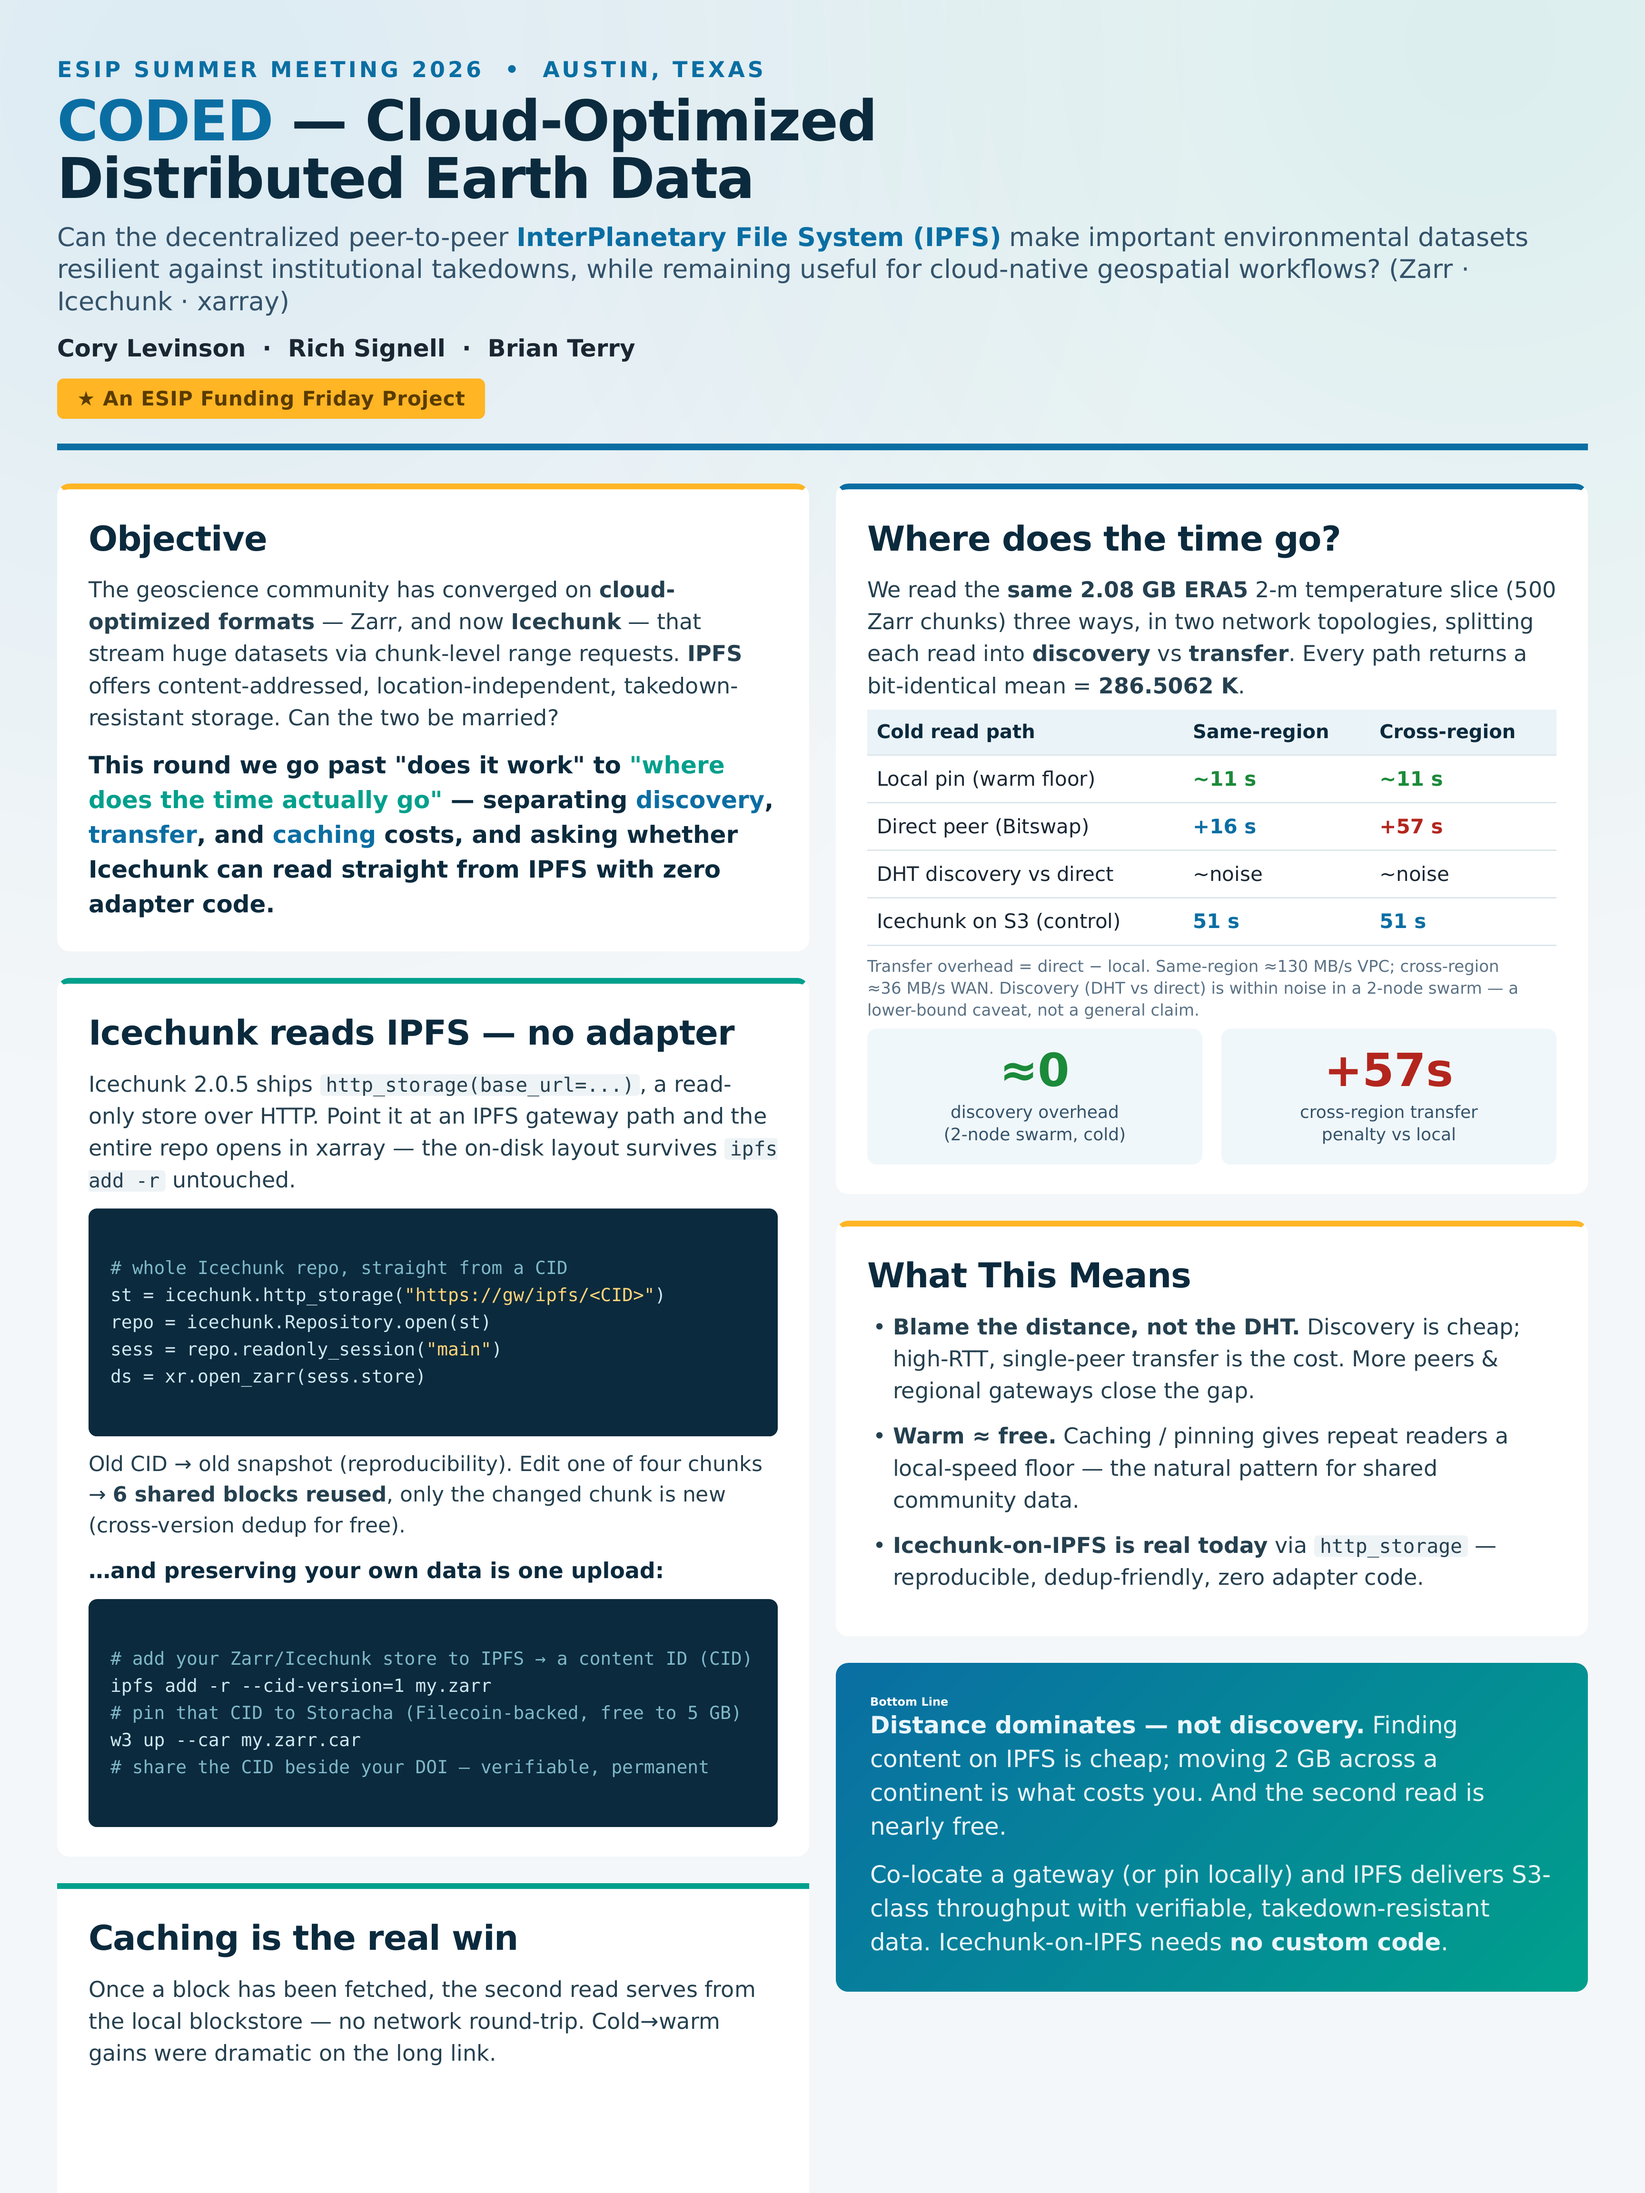
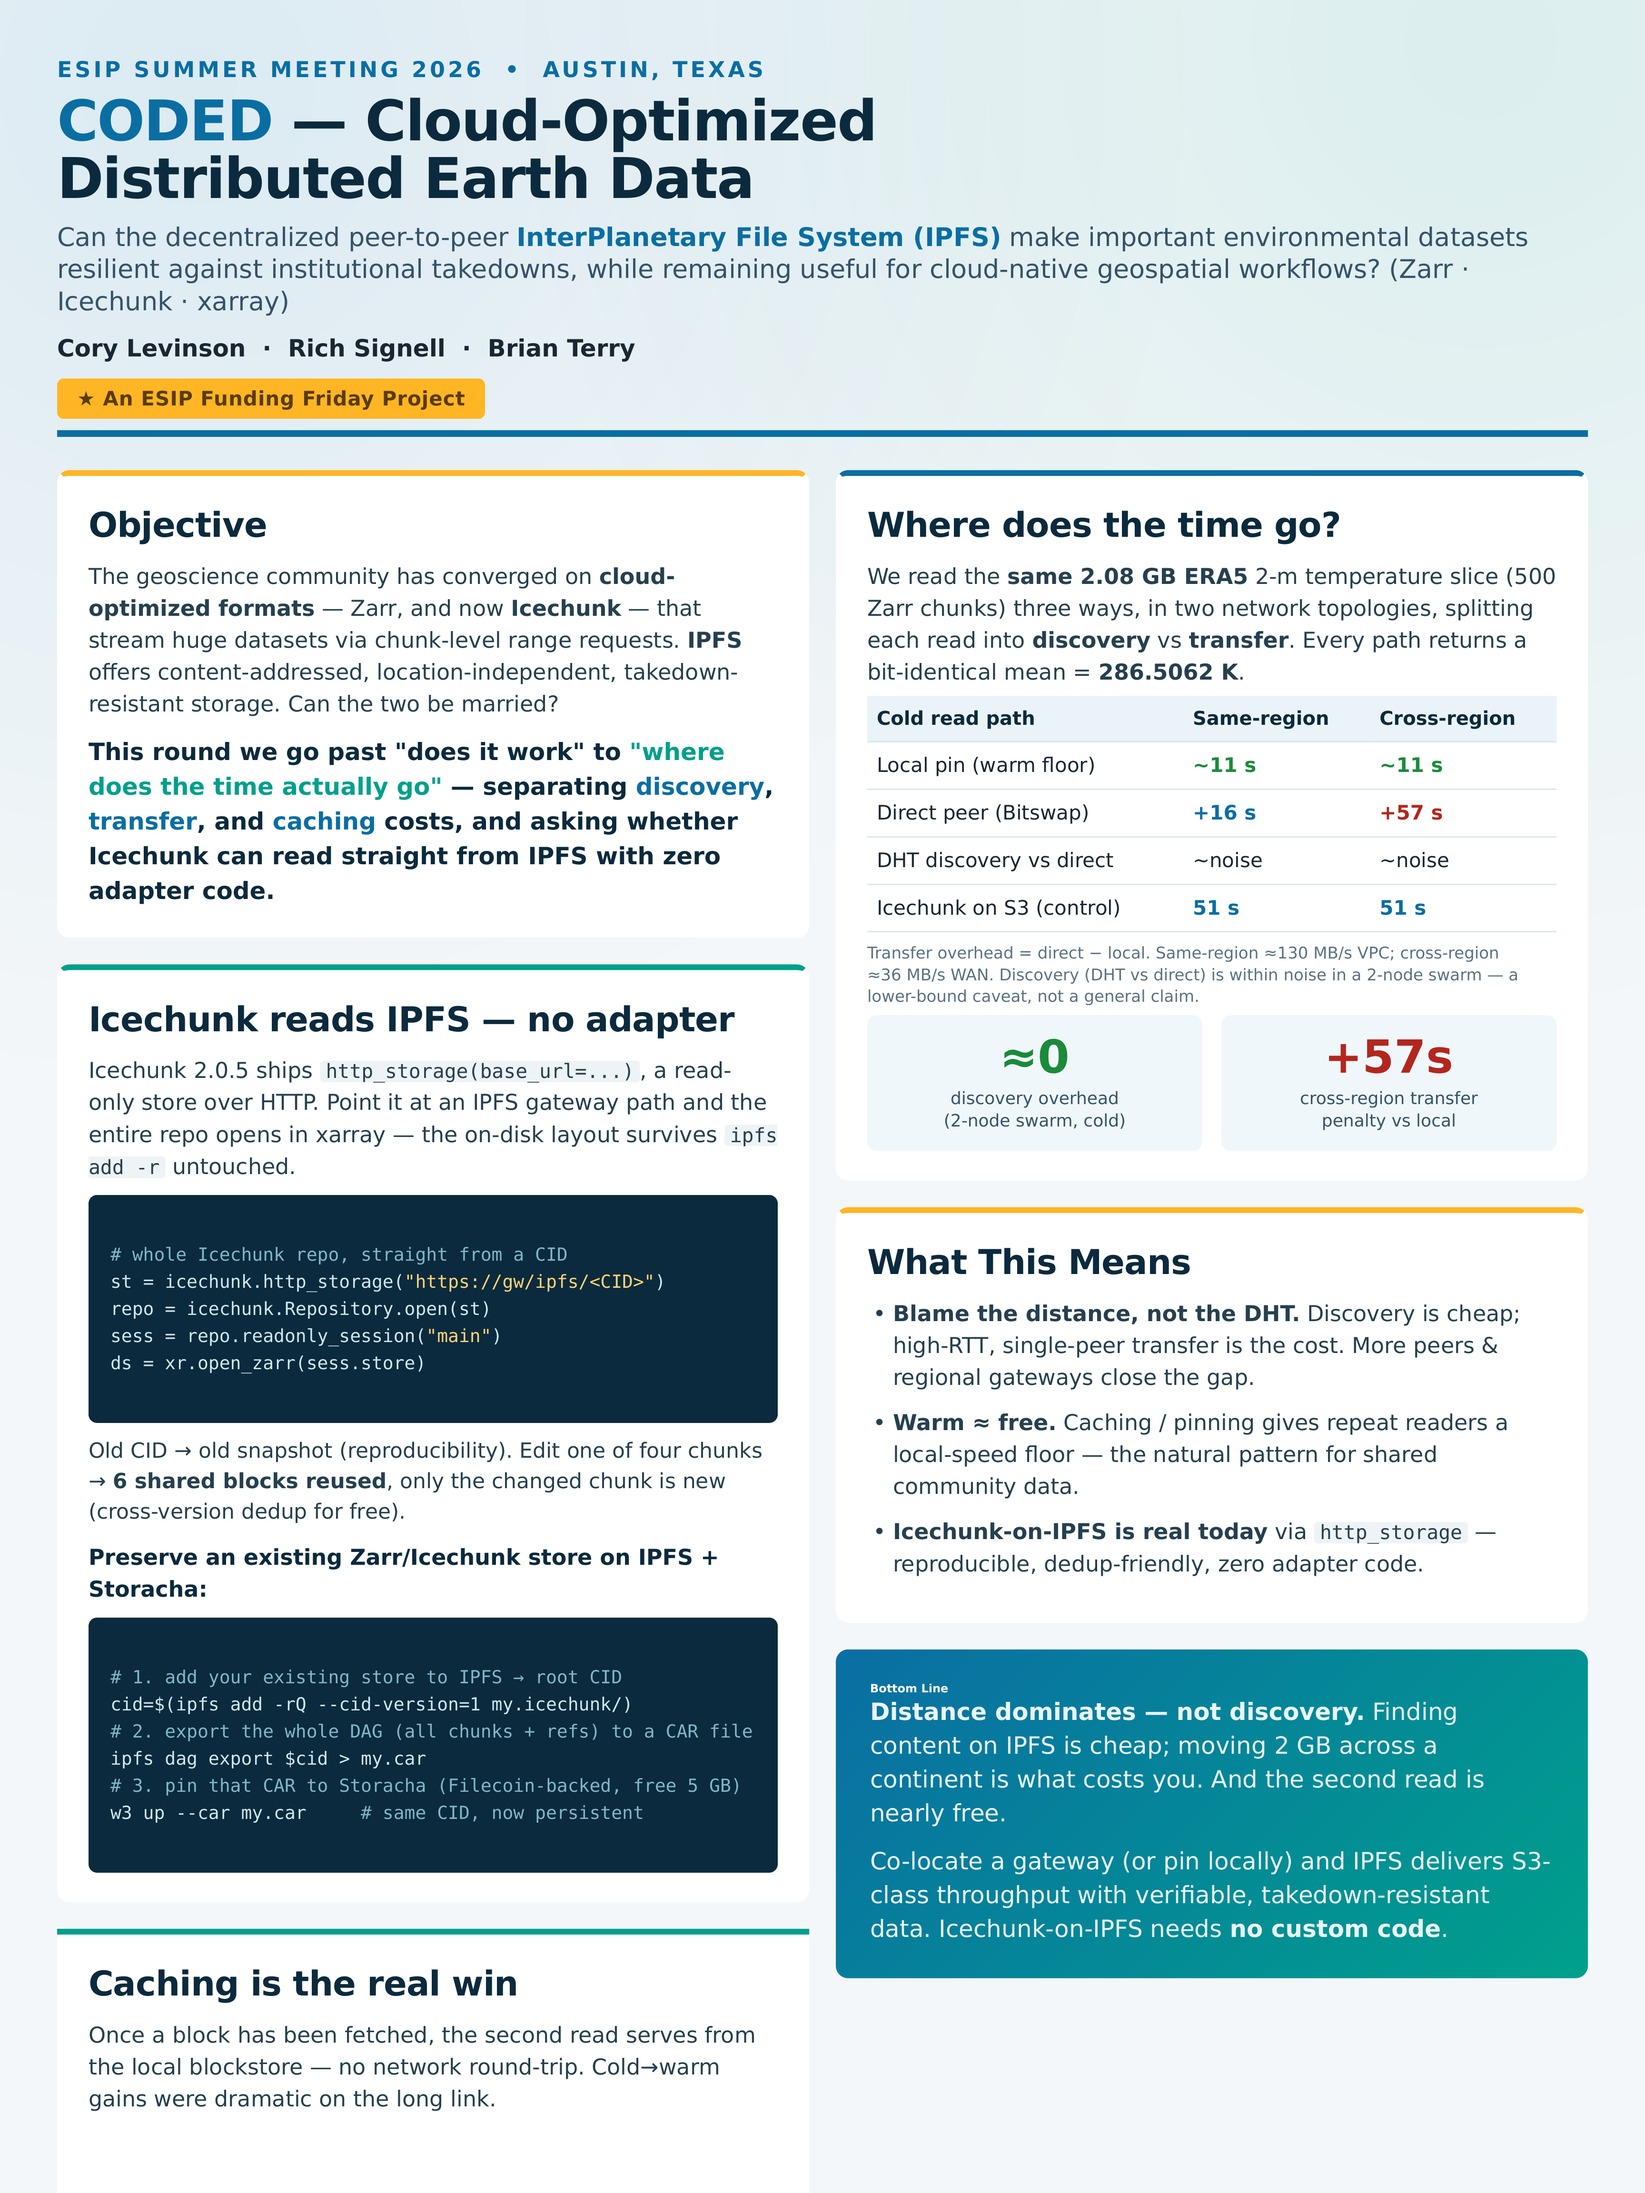
Poster v2: Storacha snippet now shows preserving an EXISTING Zarr/Icechunk store (ipfs add -rQ → dag export CAR → w3 up --car)

Changed region(s): [[0.0312, 0.1875, 0.9688, 0.9688], [0.5, 0.75, 0.9688, 0.9062]]

diff --git a/ipfs-agent/posters/esip_ipfs_poster_v2.html b/ipfs-agent/posters/esip_ipfs_poster_v2.html
@@ -170,13 +170,14 @@ sess = repo.readonly_session(<span class="kw">"main"</span>)
 ds = xr.open_zarr(sess.store)
         </div>
         <p style="margin-top:26px; font-size:44px;">Old CID → old snapshot (reproducibility). Edit one of four chunks → <b>6 shared blocks reused</b>, only the changed chunk is new (cross-version dedup for free).</p>
-        <p style="margin-top:30px; font-weight:800; color:#0b2a3d; font-size:46px;">…and preserving your <i>own</i> data is one upload:</p>
+        <p style="margin-top:30px; font-weight:800; color:#0b2a3d; font-size:46px;">Preserve an <i>existing</i> Zarr/Icechunk store on IPFS + Storacha:</p>
         <div class="codebox">
-<span class="cm"># add your Zarr/Icechunk store to IPFS → a content ID (CID)</span>
-ipfs add -r --cid-version=1 my.zarr
-<span class="cm"># pin that CID to Storacha (Filecoin-backed, free to 5 GB)</span>
-w3 up --car my.zarr.car
-<span class="cm"># share the CID beside your DOI — verifiable, permanent</span>
+<span class="cm"># 1. add your existing store to IPFS → root CID</span>
+cid=$(ipfs add -rQ --cid-version=1 my.icechunk/)
+<span class="cm"># 2. export the whole DAG (all chunks + refs) to a CAR file</span>
+ipfs dag export $cid &gt; my.car
+<span class="cm"># 3. pin that CAR to Storacha (Filecoin-backed, free 5 GB)</span>
+w3 up --car my.car     <span class="cm"># same CID, now persistent</span>
         </div>
       </div>
 
